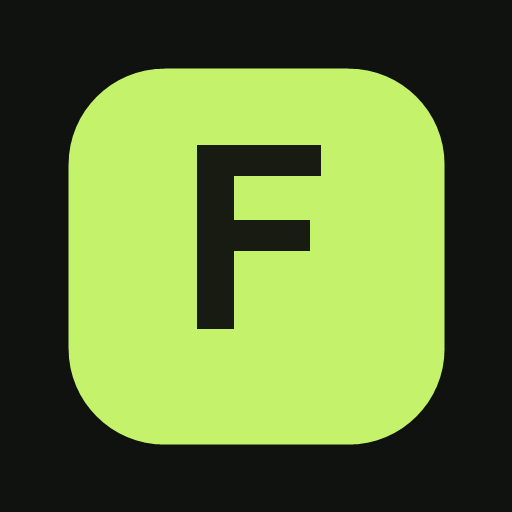
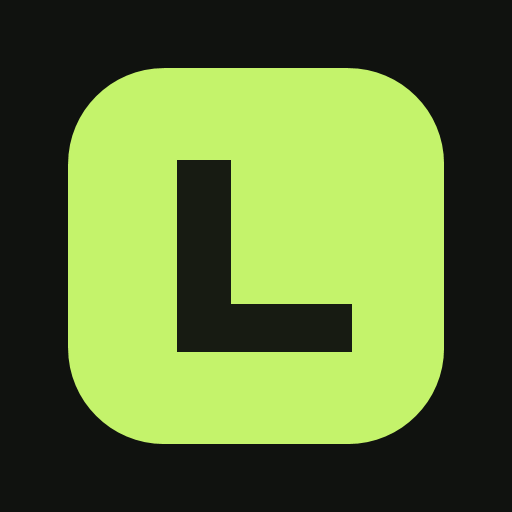
Rename app to LevelUp Fitness
Update PWA and Android branding, icons, and project metadata for the new name.

diff --git a/index.html b/index.html
@@ -4,13 +4,13 @@
   <meta charset="utf-8">
   <meta name="viewport" content="width=device-width, initial-scale=1, viewport-fit=cover">
   <meta name="theme-color" content="#10120f">
-  <meta name="description" content="Forge your fitness, one set at a time. A gamified workout tracker.">
+  <meta name="description" content="Level up your fitness, one set at a time. A gamified workout tracker.">
   <link rel="manifest" href="./manifest.webmanifest">
-  <link rel="icon" type="image/svg+xml" href="./icons/fitforge.svg">
+  <link rel="icon" type="image/svg+xml" href="./icons/levelup.svg">
   <meta name="mobile-web-app-capable" content="yes">
   <meta name="apple-mobile-web-app-capable" content="yes">
   <meta name="apple-mobile-web-app-status-bar-style" content="black-translucent">
-  <title>FitForge — Forge your fitness</title>
+  <title>LevelUp Fitness — Train. Level up.</title>
   <style>
     :root {
       color-scheme: dark;
@@ -230,7 +230,7 @@
 <body>
   <div class="app">
     <header>
-      <div class="brand"><span class="brand-mark">F</span> FitForge</div>
+      <div class="brand"><span class="brand-mark">L</span> LevelUp Fitness</div>
       <div class="header-actions">
         <button class="icon-btn" id="settingsButton" aria-label="Settings and data">⚙</button>
         <div class="avatar" id="avatar" aria-label="Profile">A</div>
@@ -434,13 +434,13 @@
           if (!parsed || typeof parsed !== "object") throw new Error("Invalid saved data");
           return { ...freshState(), ...parsed, profile:{...freshState().profile,...(parsed.profile || {})}, settings:normalizeSettings(parsed.settings), routines:Array.isArray(parsed.routines)?parsed.routines:[], favorites:Array.isArray(parsed.favorites)?parsed.favorites.filter(id=>typeof id==="string"):[], logs:Array.isArray(parsed.logs)?parsed.logs:[] };
         } catch (error) {
-          console.error("Could not load FitForge data:", error);
+          console.error("Could not load LevelUp Fitness data:", error);
           return freshState();
         }
       }
       function saveState() {
         try { localStorage.setItem(STORAGE_KEY, JSON.stringify(state)); }
-        catch (error) { console.error("Could not save FitForge data:", error); toast("Could not save data. Check device storage."); }
+        catch (error) { console.error("Could not save LevelUp Fitness data:", error); toast("Could not save data. Check device storage."); }
       }
       const allRoutines = () => [...seedRoutines, ...state.routines];
       // Derive level and progress directly from total XP to handle multiple level-ups.
@@ -460,9 +460,9 @@
         if(!state.settings.haptics) return;
         if(typeof navigator.vibrate!=="function") return;
         try {
-          if(!navigator.vibrate(pattern)) console.warn("FitForge vibration cue is unavailable on this device.");
+          if(!navigator.vibrate(pattern)) console.warn("LevelUp Fitness vibration cue is unavailable on this device.");
         } catch(error) {
-          console.warn("FitForge vibration cue is unavailable:",error);
+          console.warn("LevelUp Fitness vibration cue is unavailable:",error);
         }
       }
 
@@ -480,15 +480,15 @@
         if (isInstalled()) {
           button.textContent = "✓ App Installed";
           button.disabled = true;
-          status.textContent = "FitForge is installed and ready on your device.";
+          status.textContent = "LevelUp Fitness is installed and ready on your device.";
         } else if (deferredInstallPrompt) {
-          button.textContent = "📲 Install FitForge App";
+          button.textContent = "📲 Install LevelUp Fitness";
           button.disabled = false;
-          status.textContent = "Install FitForge directly to your home screen for quick access.";
+          status.textContent = "Install LevelUp Fitness directly to your home screen for quick access.";
         } else {
-          button.textContent = "📲 Install FitForge App";
+          button.textContent = "📲 Install LevelUp Fitness";
           button.disabled = true;
-          status.textContent = "Install is available when FitForge is served over HTTPS with a web app manifest and service worker. On iPhone, use Share → Add to Home Screen.";
+          status.textContent = "Install is available when LevelUp Fitness is served over HTTPS with a web app manifest and service worker. On iPhone, use Share → Add to Home Screen.";
         }
       }
       async function installApp() {
@@ -508,13 +508,13 @@
           const choice = await promptEvent.userChoice;
           if (choice?.outcome === "accepted") {
             const status = document.getElementById("installAppStatus");
-            if (status) status.textContent = "Thanks for installing FitForge!";
+            if (status) status.textContent = "Thanks for installing LevelUp Fitness!";
           } else {
             const status = document.getElementById("installAppStatus");
-            if (status) status.textContent = "Installation was dismissed. You can install FitForge later from your browser menu.";
+            if (status) status.textContent = "Installation was dismissed. You can install LevelUp Fitness later from your browser menu.";
           }
         } catch (error) {
-          console.error("Could not start FitForge installation:", error);
+          console.error("Could not start LevelUp Fitness installation:", error);
           toast("The browser could not start installation. Try the browser menu.");
         }
       }
@@ -707,7 +707,7 @@
         });
       }
       function showSettings() {
-        openModal(`<div class="modal-head"><h2 id="modalTitle">Settings & data</h2><button class="close-btn" data-close aria-label="Close">×</button></div><div class="field"><label for="profileName">Your display name</label><input id="profileName" maxlength="30" value="${safe(state.profile.name || "Athlete")}"></div><div class="settings-section"><h3>Training preferences</h3><p>Make FitForge work the way you train.</p></div><div class="field"><label for="weightUnitSetting">Weight units</label><select id="weightUnitSetting"><option value="kg" ${weightUnit()==="kg"?"selected":""}>Kilograms (kg)</option><option value="lb" ${weightUnit()==="lb"?"selected":""}>Pounds (lb)</option></select></div><div class="field"><label for="restDurationSetting">Default rest timer</label><select id="restDurationSetting">${[30,45,60,90,120].map(seconds=>`<option value="${seconds}" ${state.settings.restSeconds===seconds?"selected":""}>${seconds} seconds</option>`).join("")}</select></div><div class="field"><label for="weeklyGoalSetting">Weekly workout goal</label><select id="weeklyGoalSetting">${[2,3,4,5,6].map(goal=>`<option value="${goal}" ${state.settings.weeklyGoal===goal?"selected":""}>${goal} workouts per 7 days</option>`).join("")}</select></div><div class="settings-toggle"><label for="hapticsSetting"><strong>Rest timer vibration</strong><span>Vibrate when your rest is over.</span></label><div class="settings-toggle-actions"><button class="btn btn-quiet" id="testHapticsButton" type="button" ${state.settings.haptics?"":"disabled"}>Test</button><input type="checkbox" id="hapticsSetting" role="switch" aria-label="Enable rest timer vibration" ${state.settings.haptics?"checked":""}></div></div><div class="settings-section" style="margin-top:20px"><h3>App & data</h3><p>Install FitForge or manage your saved progress.</p></div><div class="settings-list"><div><button class="btn btn-secondary btn-block" id="installAppButton" type="button">📲 Install FitForge App</button><p class="install-status" id="installAppStatus" aria-live="polite"></p></div><button class="btn btn-secondary btn-block" id="exportButton">⇩ &nbsp; Export workout data (.json)</button><button class="btn btn-secondary btn-block" id="importButton">⇧ &nbsp; Import workout data (.json)</button><button class="btn btn-danger btn-block" id="clearDataButton">⌫ &nbsp; Clear all app data</button></div><p style="font-size:10px;margin-top:14px">Data is stored locally in this browser. Export a backup before clearing or changing devices.</p>`);
+        openModal(`<div class="modal-head"><h2 id="modalTitle">Settings & data</h2><button class="close-btn" data-close aria-label="Close">×</button></div><div class="field"><label for="profileName">Your display name</label><input id="profileName" maxlength="30" value="${safe(state.profile.name || "Athlete")}"></div><div class="settings-section"><h3>Training preferences</h3><p>Make LevelUp Fitness work the way you train.</p></div><div class="field"><label for="weightUnitSetting">Weight units</label><select id="weightUnitSetting"><option value="kg" ${weightUnit()==="kg"?"selected":""}>Kilograms (kg)</option><option value="lb" ${weightUnit()==="lb"?"selected":""}>Pounds (lb)</option></select></div><div class="field"><label for="restDurationSetting">Default rest timer</label><select id="restDurationSetting">${[30,45,60,90,120].map(seconds=>`<option value="${seconds}" ${state.settings.restSeconds===seconds?"selected":""}>${seconds} seconds</option>`).join("")}</select></div><div class="field"><label for="weeklyGoalSetting">Weekly workout goal</label><select id="weeklyGoalSetting">${[2,3,4,5,6].map(goal=>`<option value="${goal}" ${state.settings.weeklyGoal===goal?"selected":""}>${goal} workouts per 7 days</option>`).join("")}</select></div><div class="settings-toggle"><label for="hapticsSetting"><strong>Rest timer vibration</strong><span>Vibrate when your rest is over.</span></label><div class="settings-toggle-actions"><button class="btn btn-quiet" id="testHapticsButton" type="button" ${state.settings.haptics?"":"disabled"}>Test</button><input type="checkbox" id="hapticsSetting" role="switch" aria-label="Enable rest timer vibration" ${state.settings.haptics?"checked":""}></div></div><div class="settings-section" style="margin-top:20px"><h3>App & data</h3><p>Install LevelUp Fitness or manage your saved progress.</p></div><div class="settings-list"><div><button class="btn btn-secondary btn-block" id="installAppButton" type="button">📲 Install LevelUp Fitness</button><p class="install-status" id="installAppStatus" aria-live="polite"></p></div><button class="btn btn-secondary btn-block" id="exportButton">⇩ &nbsp; Export workout data (.json)</button><button class="btn btn-secondary btn-block" id="importButton">⇧ &nbsp; Import workout data (.json)</button><button class="btn btn-danger btn-block" id="clearDataButton">⌫ &nbsp; Clear all app data</button></div><p style="font-size:10px;margin-top:14px">Data is stored locally in this browser. Export a backup before clearing or changing devices.</p>`);
         updateInstallControl();
         document.getElementById("installAppButton").addEventListener("click", installApp);
         document.getElementById("profileName").addEventListener("change",event=>{state.profile.name=event.target.value.trim()||"Athlete";saveState();renderAll();document.getElementById("avatar").textContent=state.profile.name[0].toUpperCase();});
@@ -726,7 +726,7 @@
       function exportData() {
         const blob=new Blob([JSON.stringify({...state,exportedAt:new Date().toISOString()},null,2)],{type:"application/json"});
         const url=URL.createObjectURL(blob);
-        const link=document.createElement("a");link.href=url;link.download=`fitforge-backup-${today()}.json`;document.body.append(link);link.click();link.remove();URL.revokeObjectURL(url);
+        const link=document.createElement("a");link.href=url;link.download=`levelup-fitness-backup-${today()}.json`;document.body.append(link);link.click();link.remove();URL.revokeObjectURL(url);
         toast("Your backup is ready.");
       }
       function validImport(value) {
@@ -736,10 +736,10 @@
         const file=event.target.files?.[0]; if(!file)return;
         try {
           const imported=JSON.parse(await file.text());
-          if(!validImport(imported)) throw new Error("The file does not look like a valid FitForge backup.");
+          if(!validImport(imported)) throw new Error("The file does not look like a valid LevelUp Fitness backup.");
           openModal(`<div class="modal-head"><h2 id="modalTitle">Import backup?</h2><button class="close-btn" data-close>×</button></div><p style="font-size:13px;margin-bottom:18px">This replaces the progress, history and custom routines currently saved on this device.</p><div class="modal-actions"><button class="btn btn-secondary" data-close>Cancel</button><button class="btn btn-primary" id="confirmImport">Replace data</button></div>`);
           document.getElementById("confirmImport").addEventListener("click",()=>{state={...freshState(),...imported,profile:{...freshState().profile,...(imported.profile||{})},settings:normalizeSettings(imported.settings),favorites:Array.isArray(imported.favorites)?imported.favorites.filter(id=>typeof id==="string"):[],active:null};saveState();closeModal();renderAll();document.getElementById("avatar").textContent=(state.profile.name||"A")[0].toUpperCase();toast("Backup imported successfully.");});
-        } catch(error) { console.error("Could not import FitForge data:",error);toast(error instanceof SyntaxError?"That file is not valid JSON.":error.message||"Could not import this backup."); }
+        } catch(error) { console.error("Could not import LevelUp Fitness data:",error);toast(error instanceof SyntaxError?"That file is not valid JSON.":error.message||"Could not import this backup."); }
         finally { event.target.value=""; }
       });
       document.addEventListener("change",event=>{
@@ -784,7 +784,7 @@
       renderAll();
       if("serviceWorker" in navigator && location.protocol !== "file:") {
         navigator.serviceWorker.register("./sw.js").catch(error => {
-          console.error("Could not register FitForge offline support:", error);
+          console.error("Could not register LevelUp Fitness offline support:", error);
         });
       }
     })();

diff --git a/sw.js b/sw.js
@@ -1,13 +1,13 @@
 "use strict";
 
-const CACHE_NAME = "fitforge-shell-v6";
+const CACHE_NAME = "fitforge-shell-v7";
 const APP_SHELL = [
   "./",
   "./index.html",
   "./manifest.webmanifest",
   "./icons/icon-192.png",
   "./icons/icon-512.png",
-  "./icons/fitforge.svg"
+  "./icons/levelup.svg"
 ];
 
 self.addEventListener("install", event => {

diff --git a/README.md b/README.md
@@ -1,6 +1,6 @@
-# FitForge app
+# LevelUp Fitness
 
-FitForge can run as an installable offline PWA or be wrapped in an Android app with Capacitor.
+LevelUp Fitness can run as an installable offline PWA or be wrapped in an Android app with Capacitor.
 
 ## Training features
 
@@ -8,13 +8,13 @@ The workout library includes strength, cardio, HIIT, calisthenics, mobility, and
 
 ## Install as a PWA
 
-Deploy the files in this folder to a static web host with HTTPS. Open the site in a supported browser and use **Install FitForge App** in Settings when the browser offers installation. For local development, serve the folder on `localhost`; opening `index.html` directly with `file://` does not enable service workers or PWA installation.
+Deploy the files in this folder to a static web host with HTTPS. Open the site in a supported browser and use **Install LevelUp Fitness** in Settings when the browser offers installation. The public app is available at [https://jcechane16-svg.github.io/levelup-fitness/](https://jcechane16-svg.github.io/levelup-fitness/). For local development, serve the folder on `localhost`; opening `index.html` directly with `file://` does not enable service workers or PWA installation.
 
 The service worker caches the app shell and same-origin resources for offline launches. Bump `CACHE_NAME` in `sw.js` when changing cached resources to invalidate the old shell cache.
 
 ## Build an Android debug APK
 
-Install Node.js 20 or newer, Android Studio with the Android SDK, and a supported JDK. In PowerShell, from this folder:
+The Android application ID is `com.levelupfitness.app`. Changing this ID means Android treats the renamed app as a separate app from any existing FitForge installation. Install Node.js 20 or newer, Android Studio with the Android SDK, and a supported JDK. In PowerShell, from this folder:
 
 ```powershell
 npm install
